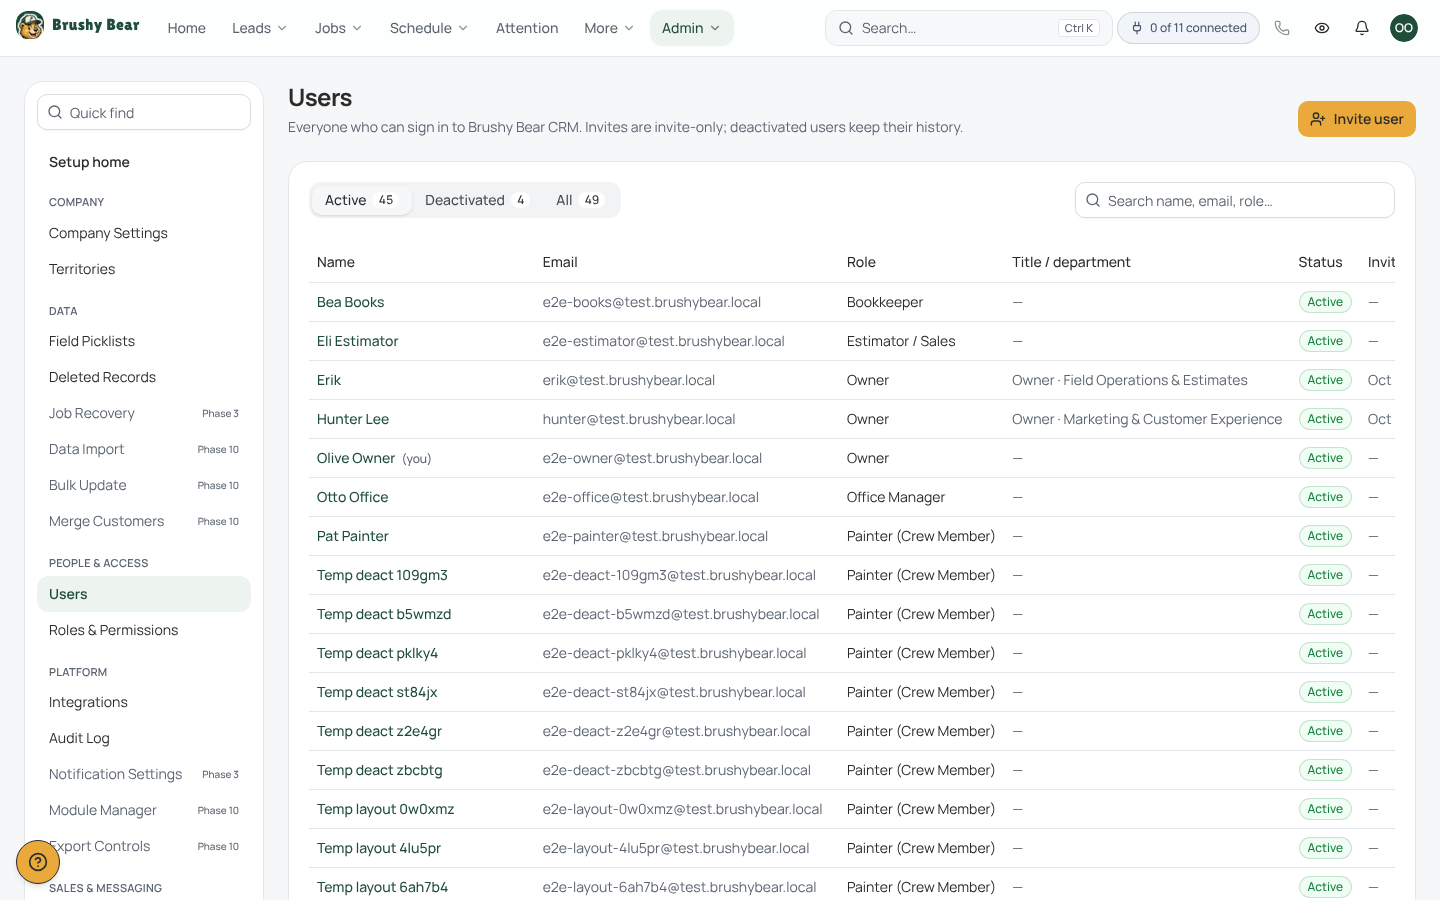
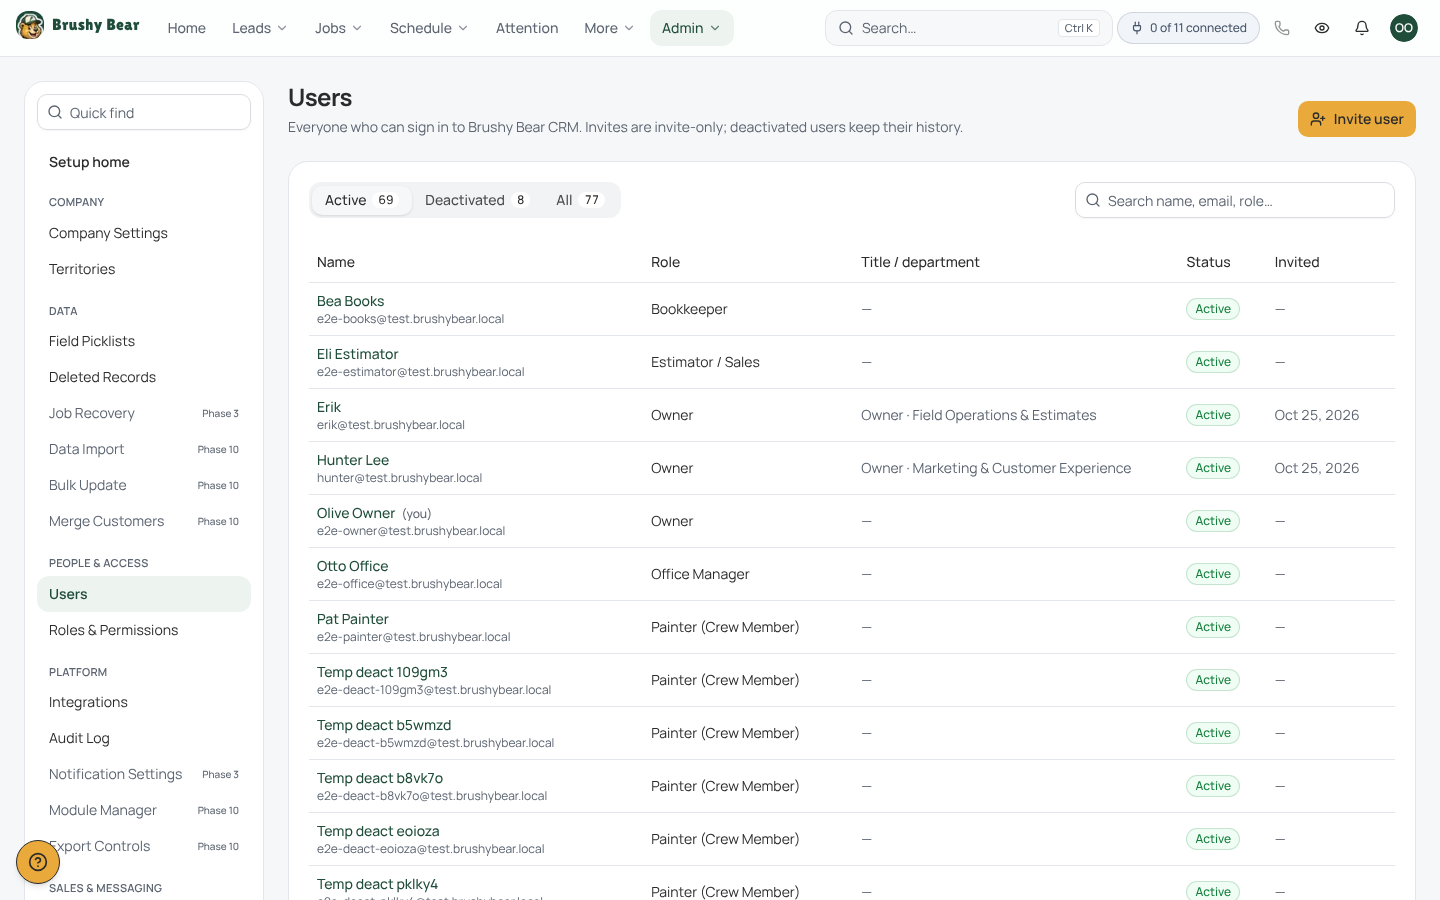
phase-1: protect owner accounts, honor optional two-step sign-in, finish Users and Settings
- Migration 0500 (additive, with rollback): only owners can change an owner's
  role, active status or email; SQL tests for each case
- Ask for a code at sign-in whenever the user has a verified authenticator
- Inactive tabs meet AA contrast
- Playwright E2E projects only pick up *.spec.ts (unit tests stay with Vitest)
- Decisions and changelog for Phase 1

Claude-Session: https://claude.ai/code/session_01Wb9ArM5FggWsZVEdRpq7jb

diff --git a/tests/e2e/admin-users.spec.ts b/tests/e2e/admin-users.spec.ts
@@ -49,6 +49,18 @@ async function signIn(page: Page, role: TestRole, next: string) {
 
 const rand = () => Math.random().toString(36).slice(2, 8);
 
+/** Throwaway users created here are deactivated afterwards so the Active list stays readable. */
+const created: string[] = [];
+async function throwaway(template: string, label: string) {
+  const u = await createThrowawayUser(template, label);
+  created.push(u.id);
+  return u;
+}
+test.afterAll(async () => {
+  if (created.length)
+    await adminClient().from("profiles").update({ is_active: false }).in("id", created);
+});
+
 async function expectNoHorizontalScroll(page: Page) {
   const overflow = await page.evaluate(
     () => document.documentElement.scrollWidth - document.documentElement.clientWidth,
@@ -137,7 +149,7 @@ test.describe("Admin → Users", () => {
   });
 
   test("owner deactivates and reactivates a throwaway user", async ({ page }) => {
-    const u = await createThrowawayUser("painter", "deact");
+    const u = await throwaway("painter", "deact");
     const admin = adminClient();
     await signIn(page, "owner", `/admin/users/${u.id}`);
     await expect(page.getByRole("heading", { level: 1, name: u.fullName })).toBeVisible();
@@ -181,7 +193,7 @@ test.describe("Admin → Users", () => {
   });
 
   test("office manager can view users but cannot invite or deactivate", async ({ page }) => {
-    const u = await createThrowawayUser("painter", "om");
+    const u = await throwaway("painter", "om");
     await signIn(page, "office_manager", "/admin/users");
     await expect(page.getByRole("heading", { level: 1, name: "Users" })).toBeVisible();
     await expect(page.getByRole("table")).toBeVisible();
@@ -201,7 +213,7 @@ test.describe("Admin → Users", () => {
   });
 
   test("owner adds and removes a per-user permission override", async ({ page }) => {
-    const u = await createThrowawayUser("painter", "ovr");
+    const u = await throwaway("painter", "ovr");
     const admin = adminClient();
     await signIn(page, "owner", `/admin/users/${u.id}`);
     const card = page.getByRole("region", { name: "Permission overrides" });
@@ -261,7 +273,7 @@ test.describe("Admin → Users", () => {
 
 test.describe("/settings", () => {
   test("a painter saves their own profile and preferences (audit-logged)", async ({ page }) => {
-    const u = await createThrowawayUser("painter", "settings");
+    const u = await throwaway("painter", "settings");
     const admin = adminClient();
     await signInWithMagicLink(page, u.email, "/settings");
     await expect(page.getByRole("heading", { level: 1, name: "Settings" })).toBeVisible();
@@ -337,7 +349,7 @@ test.describe("layout, accessibility and screenshots", () => {
   test("users list, user detail and settings: no sideways scroll at 390px, no axe violations", async ({
     page,
   }) => {
-    const u = await createThrowawayUser("painter", "layout");
+    const u = await throwaway("painter", "layout");
     await signIn(page, "owner", "/admin/users");
     for (const path of ["/admin/users", `/admin/users/${u.id}`, "/settings"]) {
       await page.setViewportSize({ width: 390, height: 844 });
@@ -356,7 +368,7 @@ test.describe("layout, accessibility and screenshots", () => {
 
   test("screenshots for the phase report", async ({ page }) => {
     mkdirSync(OUT, { recursive: true });
-    const u = await createThrowawayUser("painter", "shot");
+    const u = await throwaway("painter", "shot");
     const admin = adminClient();
     await admin
       .from("profiles")

diff --git a/components/ui/tabs.tsx b/components/ui/tabs.tsx
@@ -56,7 +56,7 @@ function TabsTrigger({ className, ...props }: React.ComponentProps<typeof TabsPr
     <TabsPrimitive.Trigger
       data-slot="tabs-trigger"
       className={cn(
-        "relative inline-flex h-[calc(100%-1px)] flex-1 items-center justify-center gap-1.5 rounded-md border border-transparent px-2 py-1 text-sm font-medium whitespace-nowrap text-foreground/60 transition-all group-data-[orientation=vertical]/tabs:w-full group-data-[orientation=vertical]/tabs:justify-start hover:text-foreground focus-visible:border-ring focus-visible:ring-[3px] focus-visible:ring-ring/50 focus-visible:outline-1 focus-visible:outline-ring disabled:pointer-events-none disabled:opacity-50 group-data-[variant=default]/tabs-list:data-[state=active]:shadow-sm group-data-[variant=line]/tabs-list:data-[state=active]:shadow-none dark:text-muted-foreground dark:hover:text-foreground [&_svg]:pointer-events-none [&_svg]:shrink-0 [&_svg:not([class*='size-'])]:size-4",
+        "relative inline-flex h-[calc(100%-1px)] flex-1 items-center justify-center gap-1.5 rounded-md border border-transparent px-2 py-1 text-sm font-medium whitespace-nowrap text-foreground/80 transition-all group-data-[orientation=vertical]/tabs:w-full group-data-[orientation=vertical]/tabs:justify-start hover:text-foreground focus-visible:border-ring focus-visible:ring-[3px] focus-visible:ring-ring/50 focus-visible:outline-1 focus-visible:outline-ring disabled:pointer-events-none disabled:opacity-50 group-data-[variant=default]/tabs-list:data-[state=active]:shadow-sm group-data-[variant=line]/tabs-list:data-[state=active]:shadow-none dark:text-muted-foreground dark:hover:text-foreground [&_svg]:pointer-events-none [&_svg]:shrink-0 [&_svg:not([class*='size-'])]:size-4",
         "group-data-[variant=line]/tabs-list:bg-transparent group-data-[variant=line]/tabs-list:data-[state=active]:bg-transparent dark:group-data-[variant=line]/tabs-list:data-[state=active]:border-transparent dark:group-data-[variant=line]/tabs-list:data-[state=active]:bg-transparent",
         "data-[state=active]:bg-background data-[state=active]:text-foreground dark:data-[state=active]:border-input dark:data-[state=active]:bg-input/30 dark:data-[state=active]:text-foreground",
         "after:absolute after:bg-foreground after:opacity-0 after:transition-opacity group-data-[orientation=horizontal]/tabs:after:inset-x-0 group-data-[orientation=horizontal]/tabs:after:bottom-[-5px] group-data-[orientation=horizontal]/tabs:after:h-0.5 group-data-[orientation=vertical]/tabs:after:inset-y-0 group-data-[orientation=vertical]/tabs:after:-right-1 group-data-[orientation=vertical]/tabs:after:w-0.5 group-data-[variant=line]/tabs-list:data-[state=active]:after:opacity-100",

diff --git a/app/(app)/admin/users/users-table.tsx b/app/(app)/admin/users/users-table.tsx
@@ -85,9 +85,8 @@ export function UsersTable({ rows, canManage }: { rows: UserRow[]; canManage: bo
                     <TableHeader>
                       <TableRow>
                         <TableHead>Name</TableHead>
-                        <TableHead>Email</TableHead>
                         <TableHead>Role</TableHead>
-                        <TableHead>Title / department</TableHead>
+                        <TableHead className="whitespace-normal">Title / department</TableHead>
                         <TableHead>Status</TableHead>
                         <TableHead>Invited</TableHead>
                       </TableRow>
@@ -105,10 +104,12 @@ export function UsersTable({ rows, canManage }: { rows: UserRow[]; canManage: bo
                             {u.isYou && (
                               <span className="ml-1.5 text-xs text-muted-foreground">(you)</span>
                             )}
+                            <span className="block text-xs font-normal text-muted-foreground">
+                              {u.email}
+                            </span>
                           </TableCell>
-                          <TableCell className="text-muted-foreground">{u.email}</TableCell>
                           <TableCell>{u.roleName}</TableCell>
-                          <TableCell className="text-muted-foreground">
+                          <TableCell className="max-w-64 whitespace-normal text-muted-foreground">
                             {[u.title, u.department].filter(Boolean).join(" · ") || "—"}
                           </TableCell>
                           <TableCell>

diff --git a/lib/actions/actions.test.ts b/lib/actions/actions.test.ts
@@ -167,6 +167,22 @@ describe("parseAccess / sessionGate", () => {
     const base = { user, effective_user: user, session_ok: false, permissions: {} };
     expect(sessionGate(parseAccess({ ...base, mfa: { required: true, aal: "aal1" } }))).toBe("mfa");
     expect(sessionGate(parseAccess({ user: null }))).toBe("no_access");
+    // Optional two-step sign-in: asked for once the user has set up an authenticator.
+    const optional = parseAccess({
+      ...base,
+      session_ok: true,
+      mfa: { required: false, aal: "aal1" },
+    });
+    expect(sessionGate(optional)).toBe("ok");
+    expect(sessionGate(optional, { hasVerifiedFactor: true })).toBe("mfa");
+    expect(
+      sessionGate(
+        parseAccess({ ...base, session_ok: true, mfa: { required: false, aal: "aal2" } }),
+        {
+          hasVerifiedFactor: true,
+        },
+      ),
+    ).toBe("ok");
     expect(
       sessionGate(
         parseAccess({

diff --git a/lib/auth/access.ts b/lib/auth/access.ts
@@ -109,9 +109,16 @@ export const CREW_ROLE_KEYS: readonly RoleTemplateKey[] = [
 ];
 
 /** Where a signed-in user should land, given their session state. */
-export function sessionGate(access: Access | null): "no_access" | "mfa" | "ok" {
+/**
+ * Where a signed-in session may go. Two-step sign-in is asked for when the role
+ * requires it, and also whenever the user has set up an authenticator on their own.
+ */
+export function sessionGate(
+  access: Access | null,
+  opts: { hasVerifiedFactor?: boolean } = {},
+): "no_access" | "mfa" | "ok" {
   if (!access || !access.user.isActive) return "no_access";
-  if (access.mfa.required && access.mfa.aal !== "aal2") return "mfa";
+  if ((access.mfa.required || opts.hasVerifiedFactor) && access.mfa.aal !== "aal2") return "mfa";
   if (!access.sessionOk) return "no_access";
   return "ok";
 }

diff --git a/app/(auth)/mfa/page.tsx b/app/(auth)/mfa/page.tsx
@@ -18,8 +18,14 @@ export default async function MfaPage() {
     <BrandPage>
       <h1 className="font-display text-2xl text-bb-forest">Two-step sign-in</h1>
       <p className="mt-1 text-sm text-muted-foreground">
-        Your role ({state.access.user.role.name}) can see money and settings, so it needs a code
-        from your phone.
+        {state.access.mfa.required ? (
+          <>
+            Your role ({state.access.user.role.name}) can see money and settings, so it needs a code
+            from your phone.
+          </>
+        ) : (
+          <>You turned on two-step sign-in. Enter the code from your authenticator app.</>
+        )}
       </p>
       <MfaPanel />
       <form action="/auth/signout" method="post" className="mt-4 text-center">

diff --git a/playwright.config.ts b/playwright.config.ts
@@ -39,7 +39,8 @@ export default defineConfig({
     { name: "setup", testMatch: /auth\.setup\.ts/ },
     {
       name: "e2e-desktop",
-      testIgnore: /(screens\.spec|auth\.setup)\.ts/,
+      testMatch: /\.spec\.ts$/,
+      testIgnore: /screens\.spec\.ts$/,
       dependencies: ["setup"],
       use: {
         ...devices["Desktop Chrome"],
@@ -49,7 +50,8 @@ export default defineConfig({
     },
     {
       name: "e2e-mobile",
-      testIgnore: /(screens\.spec|auth\.setup)\.ts/,
+      testMatch: /\.spec\.ts$/,
+      testIgnore: /screens\.spec\.ts$/,
       dependencies: ["setup"],
       use: { ...devices["Pixel 7"], storageState: OWNER_STATE },
     },

diff --git a/lib/auth/viewer.ts b/lib/auth/viewer.ts
@@ -84,7 +84,8 @@ export const getViewerState = cache(async (): Promise<ViewerState> => {
     return { status: "no_access", email: userData.user.email ?? null };
   }
   const access = parseAccess(data);
-  const gate = sessionGate(access);
+  const hasVerifiedFactor = (userData.user.factors ?? []).some((f) => f.status === "verified");
+  const gate = sessionGate(access, { hasVerifiedFactor });
   if (gate === "no_access" || !access)
     return { status: "no_access", email: userData.user.email ?? null };
   if (gate === "mfa") return { status: "mfa", access };

diff --git a/docs/DECISIONS.md b/docs/DECISIONS.md
@@ -167,3 +167,38 @@ Every non-obvious decision, newest at the bottom. Format: date · decision · re
 
 - **Decision:** Company Settings ship with `[PHONE]`, `[EMAIL]`, `[HOURS]`, `[LNI_NUMBER]` and `[UBI_NUMBER]`. The settings page flags each one as a placeholder. Later phases will refuse to send customer-facing documents while a placeholder is still in use.
 - **Reason:** SPEC §18 rule 2 ("Don't invent business facts"). The owners haven't given these values yet.
+
+### 2026-10-26 · Invites, deactivation and sign-out
+
+- **Decision:** Inviting creates the Supabase Auth user and the profile on the server (service role, after the permission check). If the profile can't be created, the Auth user is removed again. The invitation email is written to the outbox as simulated; the person signs in with a magic link from `/login`. Deactivating turns the profile off (through the normal user client, so database guards apply) and then bans the Auth user so existing sessions stop working; reactivating reverses both. Deactivation will be blocked while the person still owns open work, until a reassign step exists (Phase 2+; today `open_work_counts()` is always empty). Sign out ends only the current device. Settings → Security has "Sign out of all devices".
+- **Reason:** SPEC §4.1 (invite-only users, deactivate instead of delete) and SPEC §18 rule 3 (no real messages). Banning makes deactivation take effect right away instead of when the session token expires.
+
+### 2026-10-26 · Only owners can change an owner's account
+
+- **Decision:** Migration `20261026000500` adds one rule to the profiles guard: only an owner can change another owner's role, active status or email. Before, someone with `users:manage` could demote or deactivate an owner even though they couldn't make anyone an owner.
+- **Reason:** Found in review. Owners hold every permission, so their accounts need the same protection as the Owner template itself.
+
+### 2026-10-26 · Optional two-step sign-in
+
+- **Decision:** Anyone can turn on two-step sign-in from Settings → Security. Once a person has a verified authenticator, the app asks for a code at every sign-in, even if their role doesn't require it. For roles that do require it (Owner, Bookkeeper), Postgres also refuses data access without it.
+- **Reason:** Someone who chose to protect their account expects to be asked for the code. The database check stays tied to the role setting so it can't be bypassed for the roles that see money.
+
+### 2026-10-26 · Simulated sends emit events; the outbox isn't audit-logged
+
+- **Decision:** Each outbox row emits `outbox_message.created` with ids only (migration `20261026000400`). Outbox rows don't get `audit_log` rows: the outbox is itself the permanent record of what would have been sent, and copying message text and recipients into the audit log would spread personal data.
+- **Reason:** SPEC §18 rule 9 (events for every mutation) and SPEC §13 (keep personal data to a minimum).
+
+### 2026-10-26 · Admin screen details
+
+- **Decision:**
+  - **Audit Log:** filters are a plain GET form, so a filtered view is a shareable link and works without JavaScript. The table filter uses a fixed list of audited tables (`AUDIT_TABLES` in `lib/admin/audit-format.ts`), to be extended as later phases add tables. The person filter matches the actor and the owner viewing as them. Paging uses ids, 50 rows per page.
+  - **Outbox:** emails and phone numbers are partly hidden in the list and the detail view.
+  - **Picklists:** label edits save on Enter or when you leave the field and are not optimistic, so a clash keeps your text next to the message. Switches, selects and colors update at once. Reordering sends the full order and only the last move counts.
+  - **Roles:** creating a template or pack takes two writes. If the second fails, the first is soft-deleted. A single database function would make this one step (known gap).
+  - **Packs:** a warning appears when a pack grants managing users, editing permissions or View as, because whoever holds it can widen their own access.
+- **Reason:** These follow SPEC §8.19 and §14 (plain-language, accessible admin screens) while keeping the logic in tested helpers.
+
+### 2026-10-26 · E2E test isolation
+
+- **Decision:** One shared test user per role, signed in once by `auth.setup.ts`. Specs that change session state sign in fresh with `loginAs`. Only one sign-in per email runs at a time, across all workers, because a new magic link cancels the previous one. Specs that change or deactivate users use throwaway users and delete what they create with the service role.
+- **Reason:** Parallel runs were cancelling each other's sign-ins. The shared users must stay in a known state for the other specs.

diff --git a/CHANGELOG.md b/CHANGELOG.md
@@ -12,12 +12,21 @@ All notable changes, by build phase. See `docs/PLAN.md` for what each phase cove
 - **Audit log** on every change (who, what, before/after, when, IP, device) and a domain event for every change, both written by the database.
 - **Soft delete + Deleted Records** with restore.
 - **Admin → Setup** hub with quick find; **Company Settings** (contact, licensing, business hours, SLA timers, on-time guarantee, season, deposit, estimate expiry, review link, referral reward) with placeholders flagged.
-- **Admin screens:** Users, Roles & Permissions, Field Picklists, Territories, Integrations (11 cards, all "Not connected", plus the simulated outbox), Audit Log, Deleted Records; personal Settings.
+- **Admin screens:**
+  - **Users:** invite (the email is simulated), edit, change role, labor cost, per-user permissions, deactivate and reactivate.
+  - **Roles & Permissions:** packs × templates matrix, template editor with a preview of what changes, custom packs.
+  - **Field Picklists:** rename, reorder, colors, disposition categories, sub-source parents.
+  - **Territories:** ZIP lists with conflict checks and a ZIP lookup.
+  - **Integrations:** 11 cards, all "Not connected", with setup steps, simulated test sends and the outbox.
+  - **Audit Log:** filters and before/after diffs.
+  - **Deleted Records:** restore.
+- **Personal Settings:** profile, two-step sign-in, sign out of all devices, preferences.
 - **Integration adapters:** one interface per domain with an outbox provider (records "Simulated – not sent") and disabled real-provider stubs behind three locks.
 - Shell now shows only what each role can use; crew roles get the mobile tab bar.
 - Real brand assets (logo, mascot, icons) from the Brushy Bear website.
 - `pnpm seed:owners` creates owner accounts from `SEED_OWNER_EMAILS`.
-- Tests: SQL/RLS tests for every role (187 assertions), unit tests for permissions, territories, settings, adapters and auth helpers, Playwright E2E + axe for sign-in, every role, View as and each admin screen. CI runs E2E against a local Supabase stack.
+- Database guards: only owners can assign, demote, deactivate or change the email of an owner; the last active owner can't be turned off; the Owner template and system packs are locked.
+- Tests: SQL/RLS tests for every role (193 assertions), unit tests for permissions, territories, settings, adapters and auth helpers, Playwright E2E + axe for sign-in, every role, View as and each admin screen. CI runs E2E against a local Supabase stack.
 
 ## Phase 0 — Foundation
 
